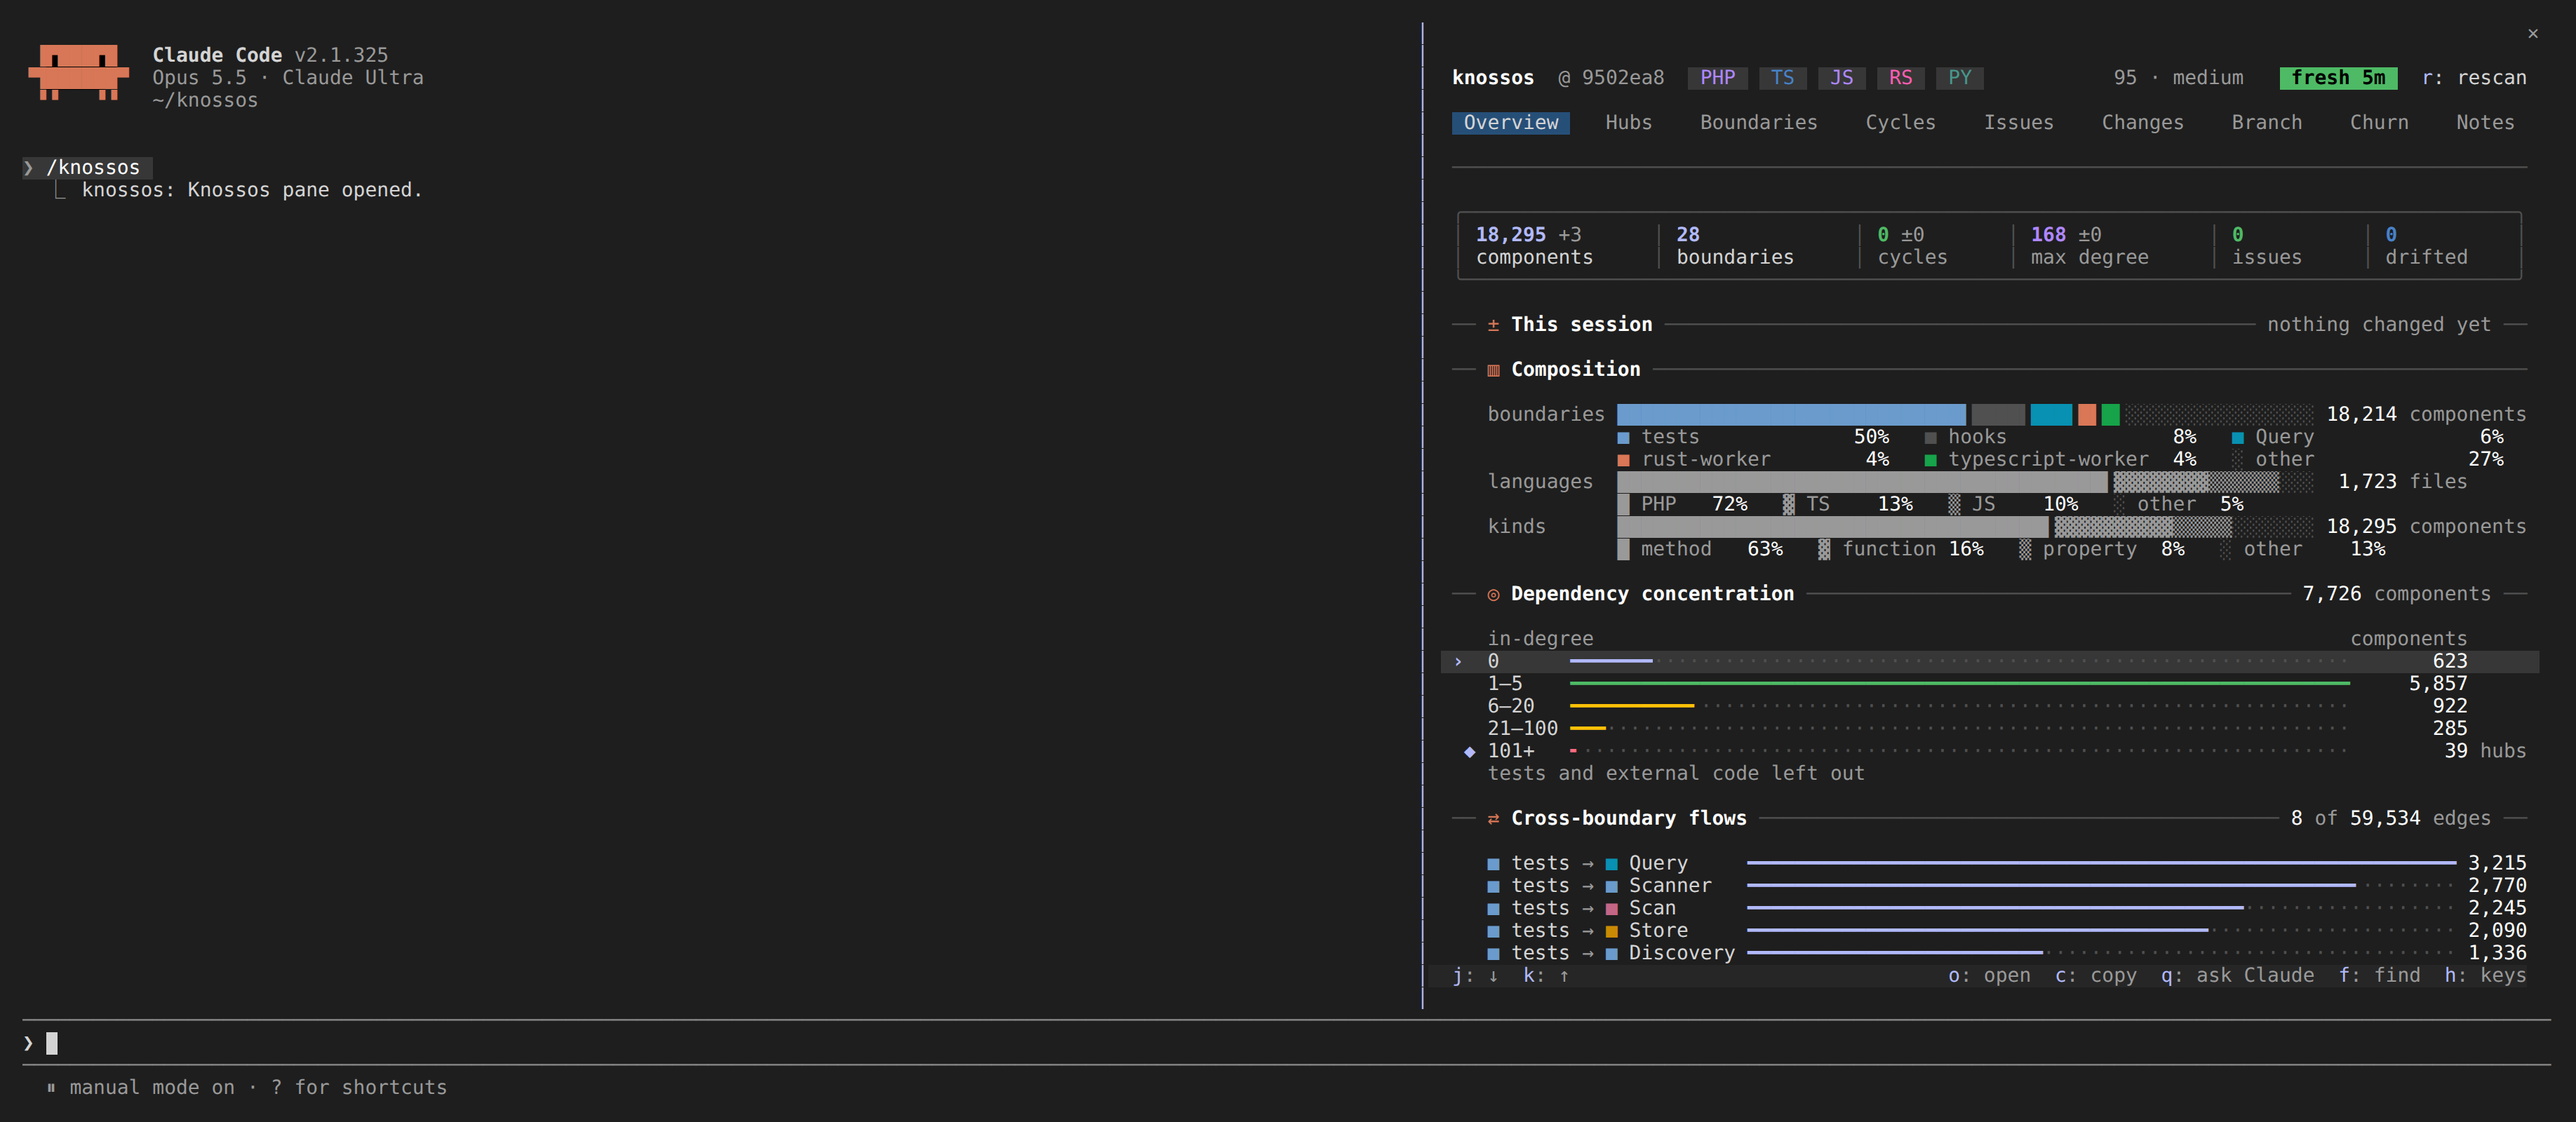
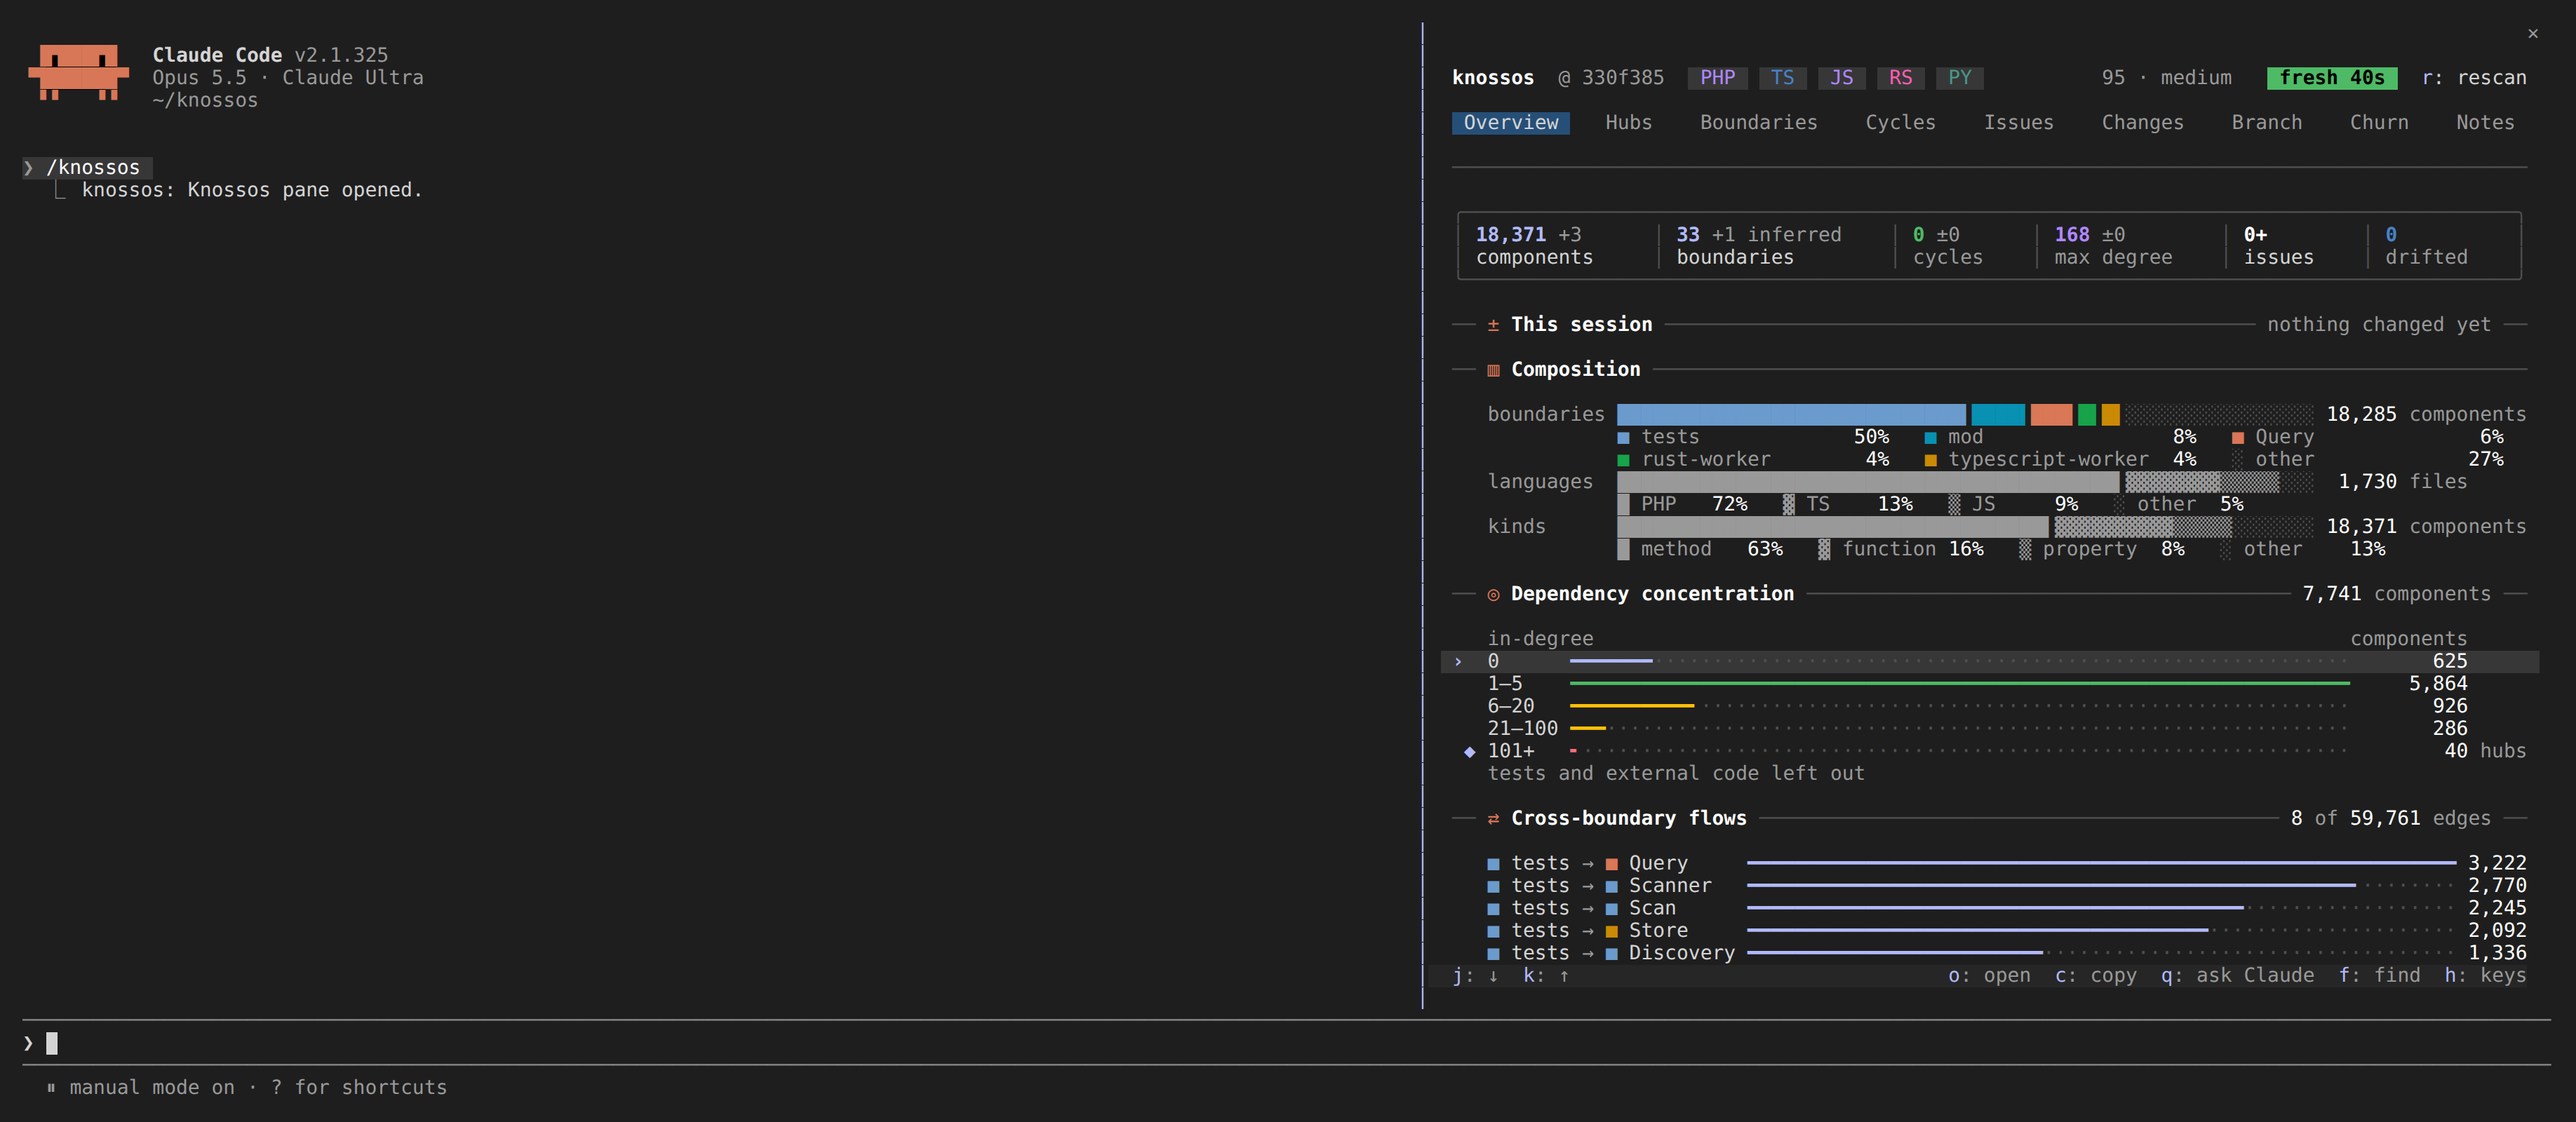
docs: shoot Overview and Boundaries again with the declared and inferred counts (#507)

diff --git a/docs/concepts/graph-and-evidence.md b/docs/concepts/graph-and-evidence.md
@@ -90,7 +90,7 @@ one holds. The Overview tile (`28 +6 inferred`) and the Boundaries tab
 declare, and the inferred ones that still label something. `list_boundaries` lists every boundary, including
 inferred ones that label nothing, so its count can be higher.
 
-![The Boundaries tab: 34 boundaries, the first five listed with their components and dependencies in and out, what the marked tests boundary depends on and what uses it, and the tests to Query flow drawn with the component pairs behind it](../images/claude-code/boundaries.png)
+![The Boundaries tab: 33 declared boundaries and 1 inferred, the first five listed with their components and dependencies in and out, what the marked tests boundary depends on and what uses it, and the tests to Query flow drawn with the component pairs behind it](../images/claude-code/boundaries.png)
 
 Roles come from classification rules that run after the workers: file-name and
 path conventions, framework conventions, manifest entry points and test

diff --git a/docs/guides/architecture-rules.md b/docs/guides/architecture-rules.md
@@ -14,7 +14,7 @@ Boundaries are explained in [the graph and its evidence](../concepts/graph-and-e
 
 ## Boundary policies
 
-![The Boundaries tab: 34 boundaries, the first five listed with their components and dependencies in and out, what the marked tests boundary depends on and what uses it, and the tests to Query flow drawn with the component pairs behind it](../images/claude-code/boundaries.png)
+![The Boundaries tab: 33 declared boundaries and 1 inferred, the first five listed with their components and dependencies in and out, what the marked tests boundary depends on and what uses it, and the tests to Query flow drawn with the component pairs behind it](../images/claude-code/boundaries.png)
 
 In the pane, the Boundaries tab lists every boundary, what it depends on and
 what depends on it, and draws the dependencies behind a flow between two.

diff --git a/docs/claude-code/pane/tabs.md b/docs/claude-code/pane/tabs.md
@@ -129,7 +129,7 @@ still: here `ResultEnvelope`, used by 89 and using 15.
 
 ## Boundaries
 
-![The Boundaries tab: 34 boundaries, the first five listed with their components and dependencies in and out, what the marked tests boundary depends on and what uses it, and the tests to Query flow drawn with the component pairs behind it](../../images/claude-code/boundaries.png)
+![The Boundaries tab: 33 declared boundaries and 1 inferred, the first five listed with their components and dependencies in and out, what the marked tests boundary depends on and what uses it, and the tests to Query flow drawn with the component pairs behind it](../../images/claude-code/boundaries.png)
 
 **The heat map** shows how much each boundary depends on each other one. Rows
 are where a dependency starts, columns where it lands. The axes are lettered,
